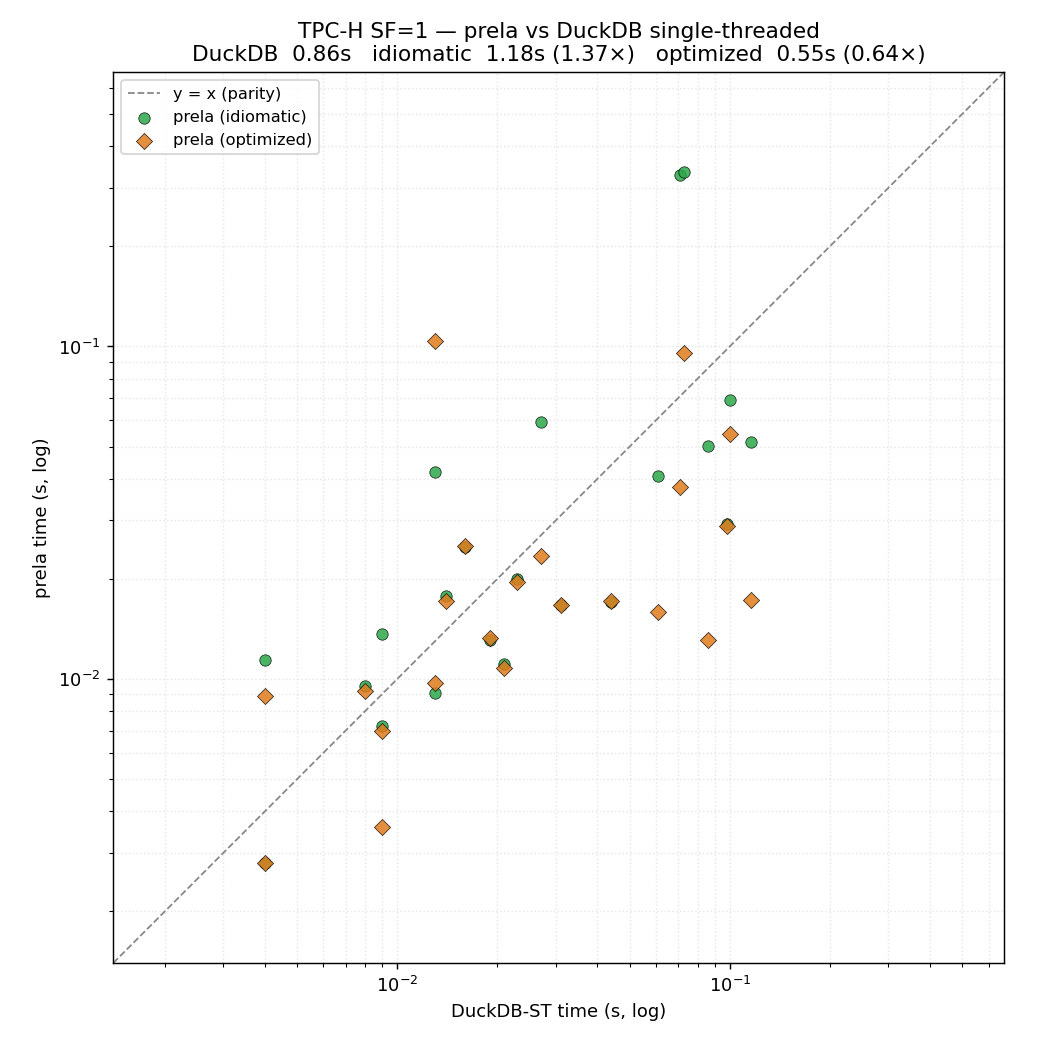
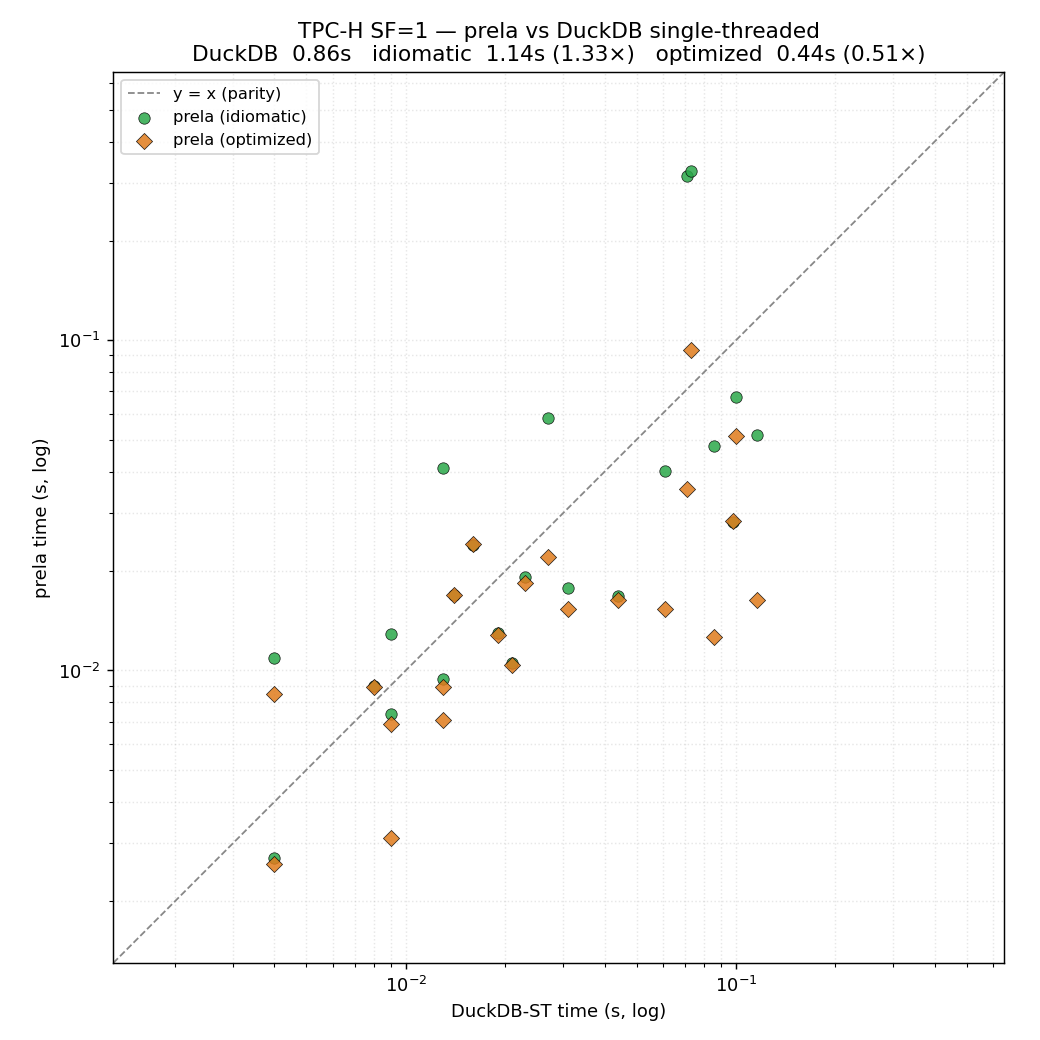
bench: refresh tpch numbers/plot after q17 win (optimized 0.44s, 2x)

diff --git a/README.md b/README.md
@@ -277,8 +277,8 @@ The plots below compare Prela against DuckDB 1.5.3 (1 thread) as baseline,
  over TPC-H and the Join Order Benchmark.
 On JOB, Prela runs the 113 queries in 5.2s vs DuckDB's 15.3s
  (3.0× faster, winning 99 of 113).
-On TPC-H SF=1, idiomatic Prela is within ~1.4× of DuckDB's vectorized engine
- (1.18s vs 0.86s), and an optimized variant beats it by ~1.6× (0.55s).
+On TPC-H SF=1, idiomatic Prela is within ~1.3× of DuckDB's vectorized engine
+ (1.14s vs 0.86s), and an optimized variant beats it by ~2× (0.44s).
 
 <p>
   <img src="./rust/bench/tpch_scatter.png" width="49%" alt="TPC-H SF=1">